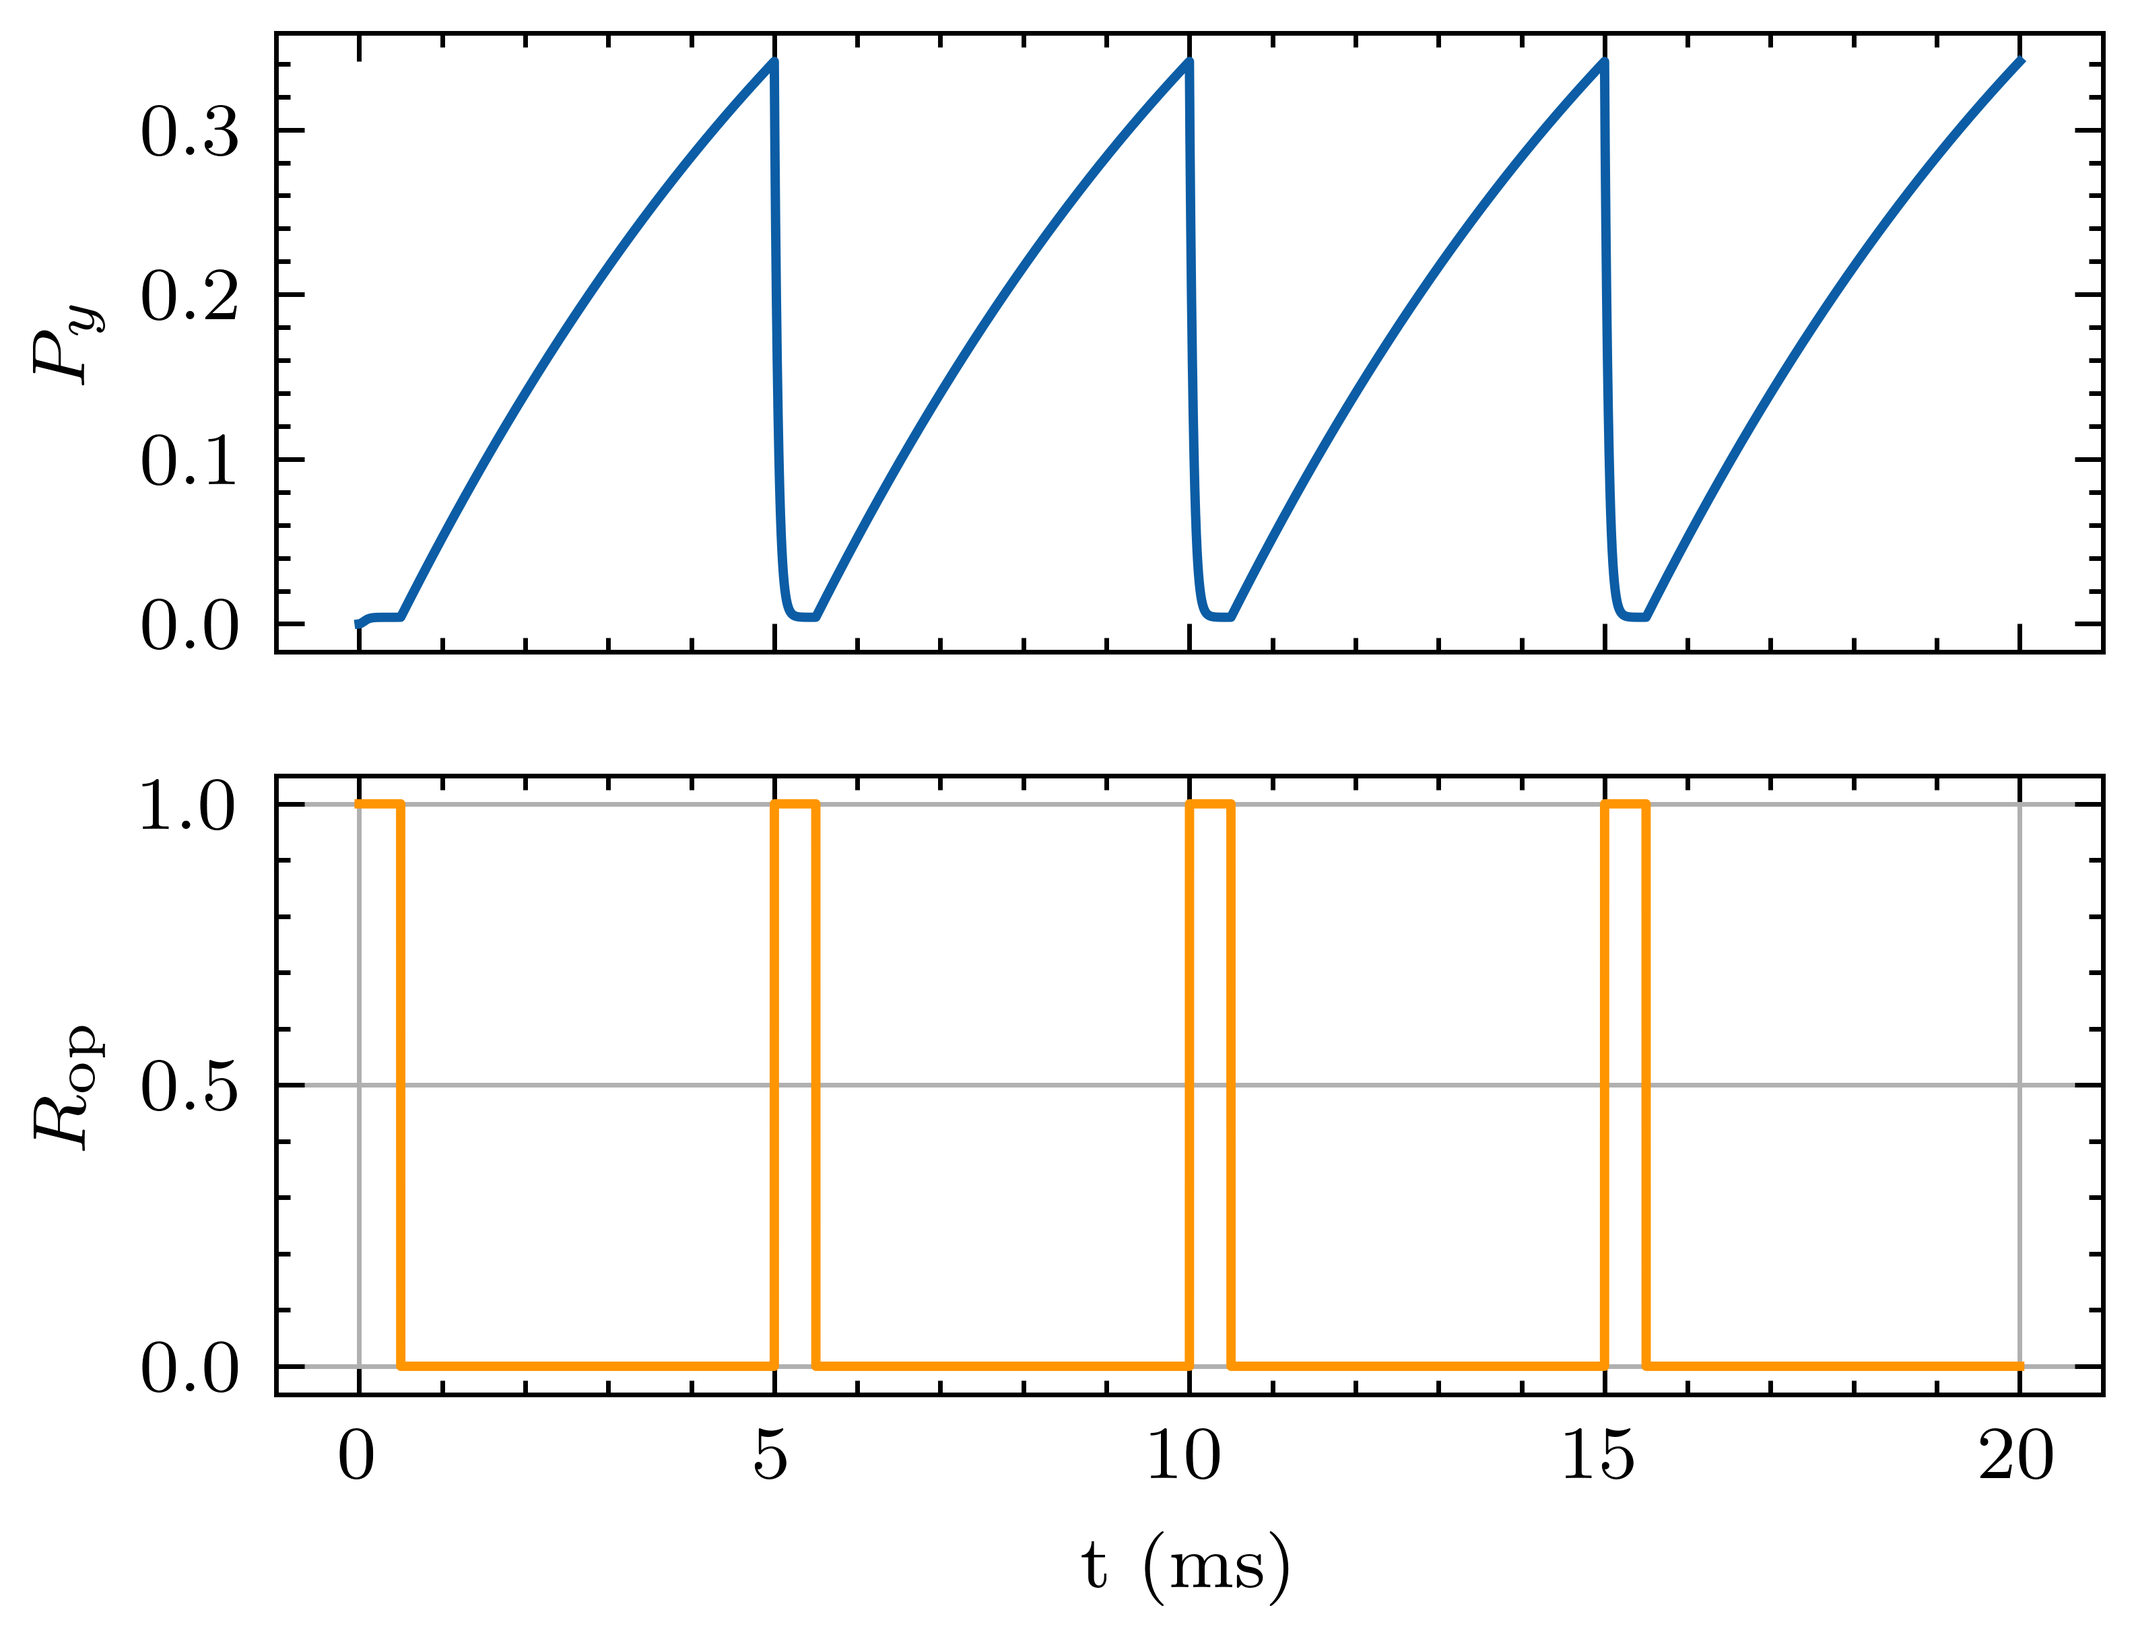
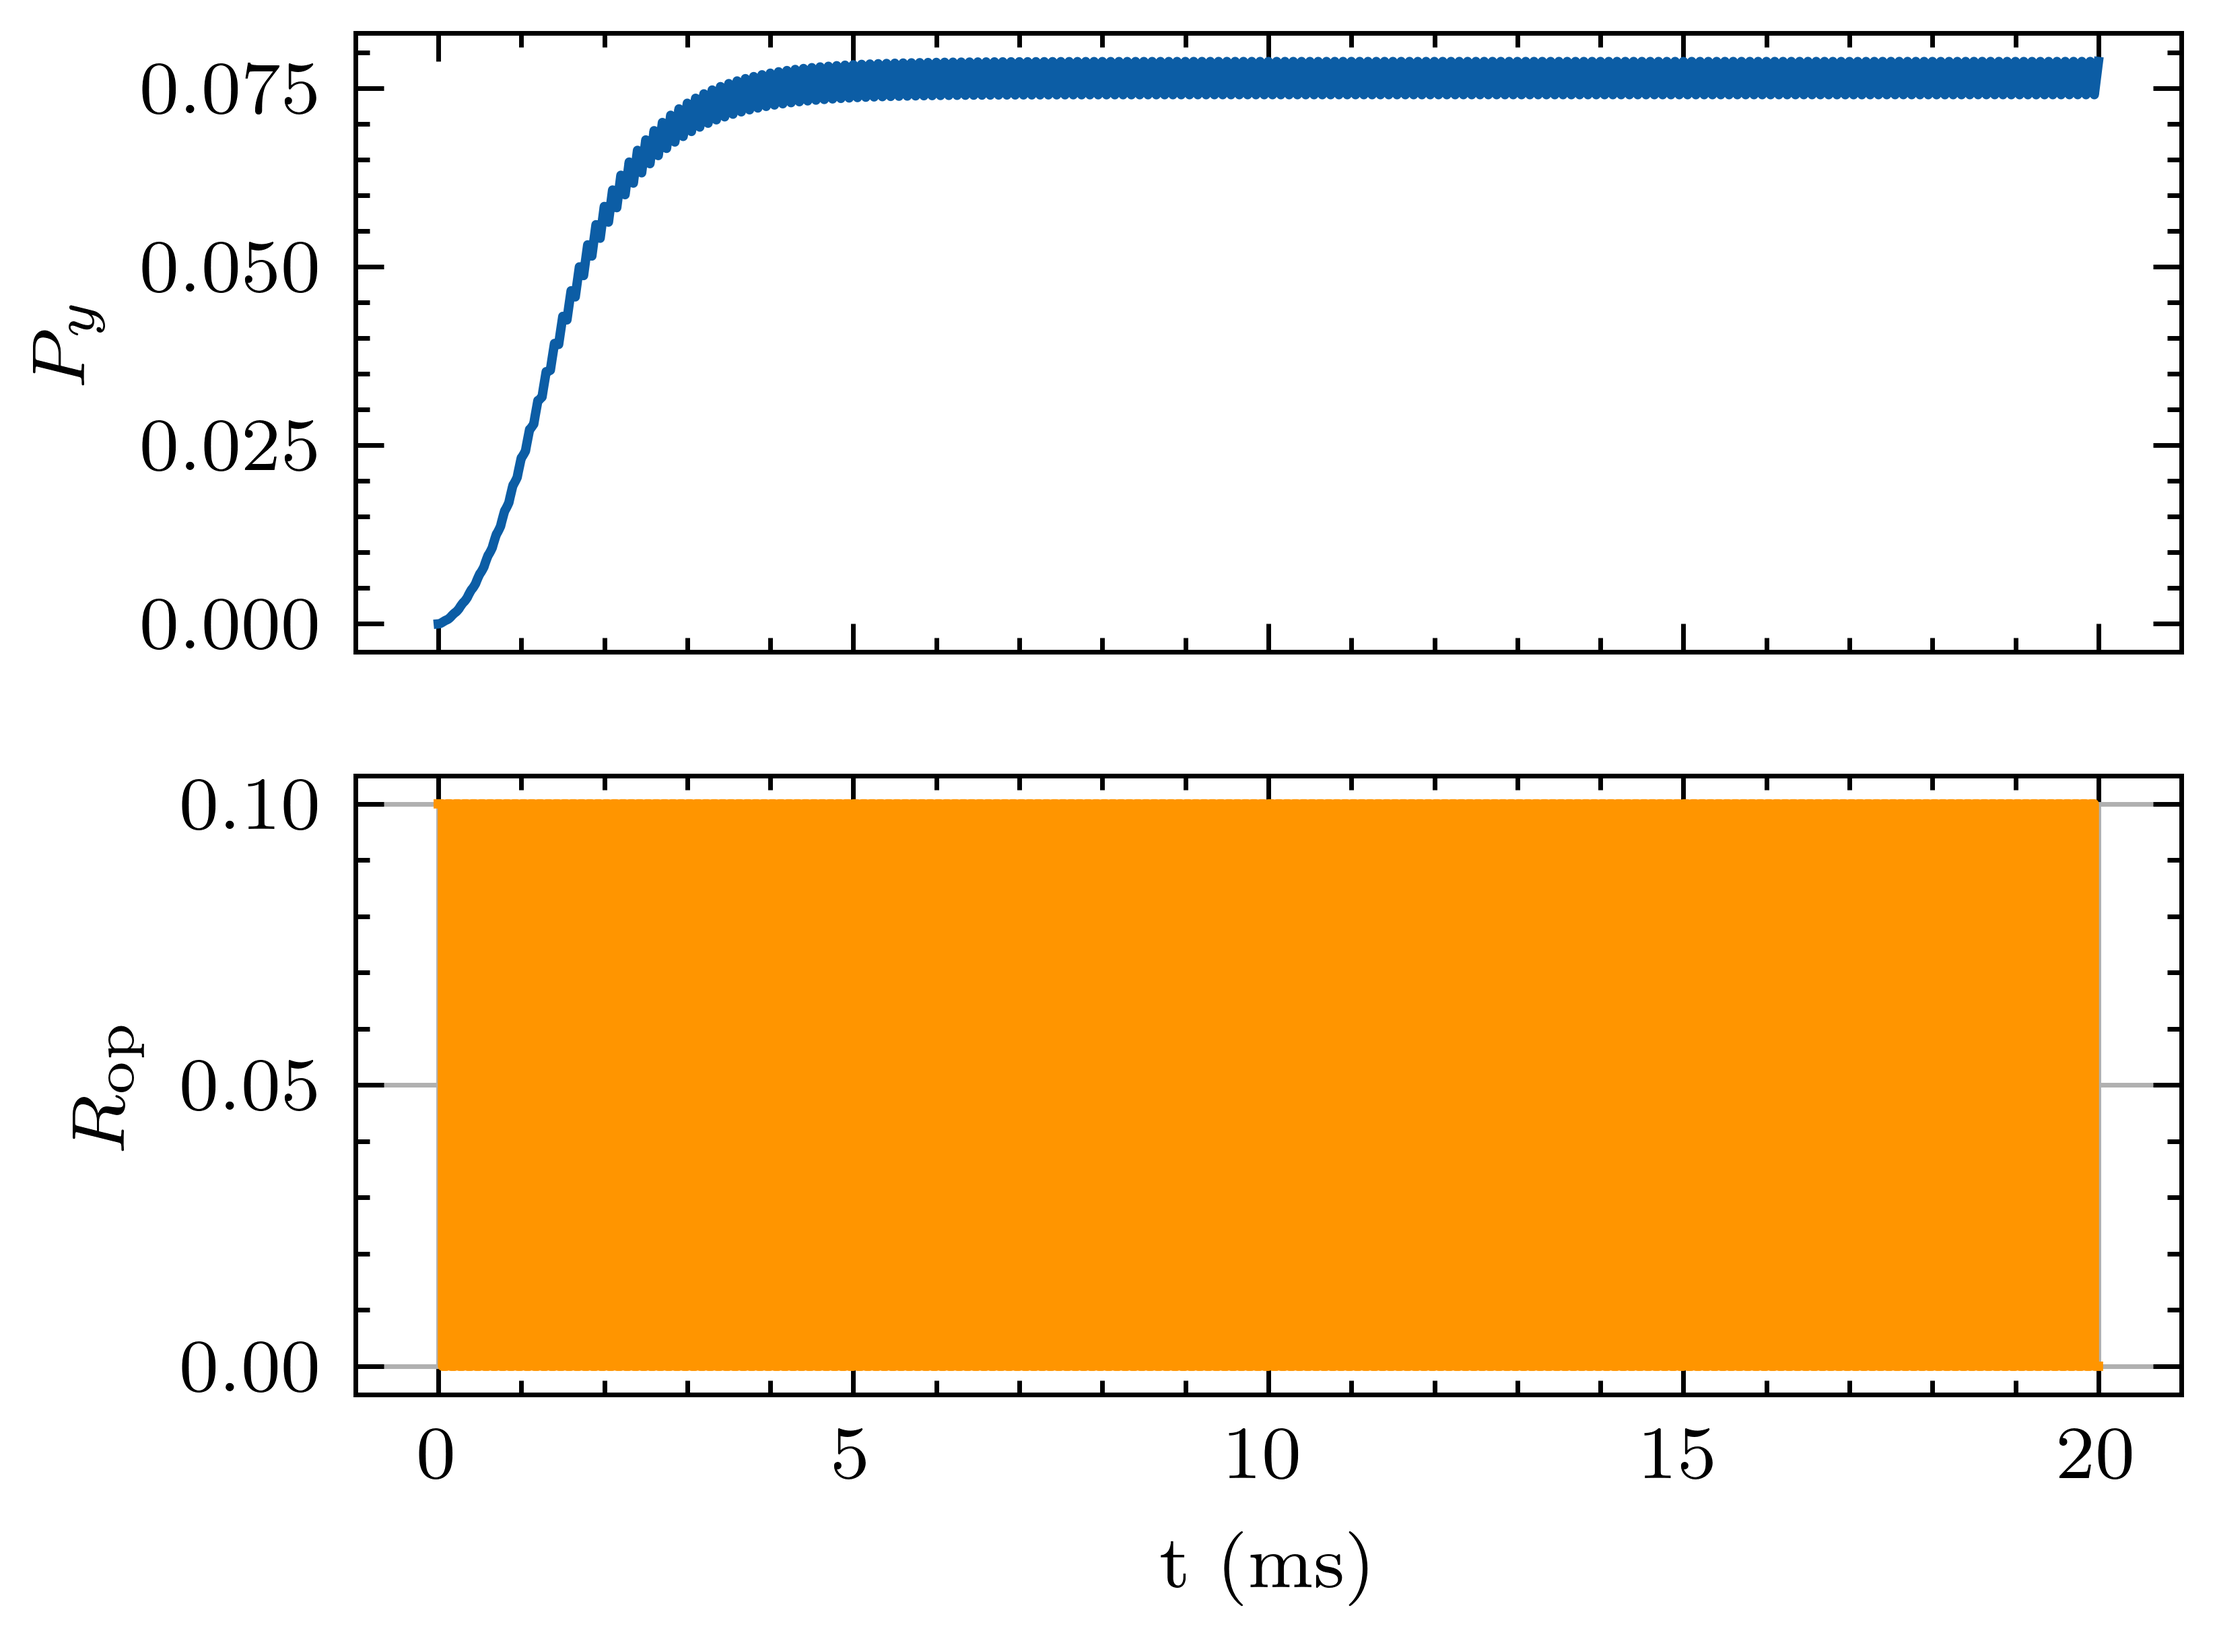
1

diff --git a/Correlations_and_squeezing/desqueezing by Zeeman and hyperfine effect.py b/Correlations_and_squeezing/desqueezing by Zeeman and hyperfine effect.py
@@ -10,10 +10,10 @@ sys.path.append(r"D:\python\pythonProject\Optically_pumped_atoms\my_functions")
 import numpy as np
 import matplotlib.pyplot as plt
 from qutip import *
-from Generate_a_squeezed_state_by_QND import Generate_a_squeezed_state_by_QND
-from alkali_atom_uncoupled_to_coupled import alkali_atom_uncoupled_to_coupled
+from my_functions.Generate_a_squeezed_state_by_QND import Generate_a_squeezed_state_by_QND
+from my_functions.alkali_atom_uncoupled_to_coupled import alkali_atom_uncoupled_to_coupled
 from scipy.linalg import *
-from spin_operators_of_2or1_alkali_metal_atoms import spin_operators_of_2or1_alkali_metal_atoms
+from my_functions.spin_operators_of_2or1_alkali_metal_atoms import spin_operators_of_2or1_alkali_metal_atoms
 from sympy.physics.quantum.spin import JzKet, JxKet
 from sympy.physics.quantum.represent import represent
 from matplotlib import rc
@@ -109,8 +109,8 @@ if N == 3:
     Pt23 = 3 / 4 * np.eye(round((2 * (2 * I + 1)) ** N)) + (S2x @ S3x + S2y @ S3y + S2z @ S3z)
     Pe23 = Pt23 - Ps23
 
-T = 150
-dt = 0.01
+T = 3
+dt = 0.001
 n = round(T / dt)
 te = np.arange(0, T, dt)
 C_1 = [None] * n
@@ -127,7 +127,7 @@ C_a1za2z2 = [None] * n
 C_a1zb2z2 = [None] * n
 C_b1zb2z2 = [None] * n
 # ----------------------Magnetic field----------------------#
-omega_0 = 0.1
+omega_0 = 1
 # H = omega_e * (ax-bx)              #一个原子
 # H = omega_0 * (a1x + a2x - b1x - b2x)  # 两个原子
 H = omega_0 * (a1x + a2x + a3x - b1x - b2x - b3x)  # 三个原子
@@ -151,7 +151,7 @@ for t in np.arange(0, n, 1):
     # C_a1zb2z[t] = np.trace(Rho_atom @ a1z @ b2z) - np.trace(Rho_atom @ a1z) * np.trace(Rho_atom @ b2z)
     # C_b1zb2z[t] = np.trace(Rho_atom @ b1z @ b2z) - np.trace(Rho_atom @ b1z) * np.trace(Rho_atom @ b2z)
     hh=np.random.uniform()
-    if hh<0.1:
+    if hh<0.3:
         r = np.random.uniform()
         if r  < 0.3:
             phi = np.random.normal(np.pi / 2, 2)
@@ -177,7 +177,8 @@ for t in np.arange(0, n, 1):
     # C_b1zb2z2[t] = np.trace(Rho_atom @ b1z @ b2z) - np.trace(Rho_atom @ b1z) * np.trace(Rho_atom @ b2z)
     Rho_atom = evolving_B @ Rho_atom @ evolving_B.T.conjugate()
     Rho_atom = hyperfine * Rho_atom
-
+C_1=np.array(C_1)/16
+C_2=np.array(C_2)/16
 tt = np.arange(0, n, 1)*0.01
 with plt.style.context(['science']):
     fig = plt.figure()
@@ -188,10 +189,9 @@ with plt.style.context(['science']):
                ["With SEC","Witout SEC"]
                , loc='upper right',ncol=2,fontsize='9')
     ax1.set_xlabel('$t$ (s)')
-    ax1.set_ylabel('Var $( \mathcal F_{x})$')
+    ax1.set_ylabel('Var $( \mathcal S_{x})$')
     # plt.xlim(0, 2)
-    plt.ylim(1.6,9)
-    plt.show()
+    plt.ylim(0.1,0.6)
     plt.savefig('desqueezing.png', dpi=600)
 
     # fig = plt.figure()

diff --git a/Correlations_and_squeezing/SEC of two Rb atoms on their correlation.py b/Correlations_and_squeezing/SEC of two Rb atoms on their correlation.py
@@ -7,8 +7,8 @@ import sys
 sys.path.append(r"D:\python\pythonProject\Optically_pumped_atoms\my_functions")
 import numpy as np
 import matplotlib.pyplot as plt
-from spin_operators_of_2or1_alkali_metal_atoms import spin_operators_of_2or1_alkali_metal_atoms
-from alkali_atom_uncoupled_to_coupled import alkali_atom_uncoupled_to_coupled
+from my_functions.spin_operators_of_2or1_alkali_metal_atoms import spin_operators_of_2or1_alkali_metal_atoms
+from my_functions.alkali_atom_uncoupled_to_coupled import alkali_atom_uncoupled_to_coupled
 from qutip import *
 from scipy.linalg import *
 import matplotlib.pyplot as plt
@@ -121,7 +121,7 @@ with plt.style.context(['science']):
     # p7, = plt.plot(t * dt, C_7)
     # p5, = plt.plot(t * dt, C_5)
     plt.legend([p1, p2, p3, p4, p5,p6],
-               ["$\langle a_{1x} a_{1x} \\rangle$", "$\langle b_{1x} b_{1x} \\rangle$", "$\langle a_{1x} a_{2x} \\rangle$", "$\langle b_{1x} b_{2x} \\rangle$", "$\langle a_{1x} b_{2x}\\rangle$", "$\langle \mathcal F_{x} \mathcal F_{x} \\rangle$"]
+               ["$\langle f^a_{1x} f^a_{1x} \\rangle$", "$\langle f^b_{1x} f^b_{1x} \\rangle$", "$\langle f^a_{1x} f^a_{2x} \\rangle$", "$\langle f^b_{1x} f^b_{2x} \\rangle$", "$\langle f^a_{1x} f^b_{2x}\\rangle$", "$\langle \mathcal F_{x} \mathcal F_{x} \\rangle$"]
                ,ncol = 2, loc='center right',bbox_to_anchor=(0.95, 0.7))
 
     plt.xlabel('Spin-exchange collision number')

diff --git a/Correlations_and_squeezing/SEC increase of two atoms.py b/Correlations_and_squeezing/SEC increase of two atoms.py
@@ -8,8 +8,8 @@ sys.path.append(r"D:\python\pythonProject\Optically_pumped_atoms\my_functions")
 
 import numpy as np
 import matplotlib.pyplot as plt
-from spin_operators_of_2or1_alkali_metal_atoms import spin_operators_of_2or1_alkali_metal_atoms
-from  alkali_atom_uncoupled_to_coupled import alkali_atom_uncoupled_to_coupled
+from my_functions.spin_operators_of_2or1_alkali_metal_atoms import spin_operators_of_2or1_alkali_metal_atoms
+from  my_functions.alkali_atom_uncoupled_to_coupled import alkali_atom_uncoupled_to_coupled
 from qutip import *
 from scipy.linalg import *
 import matplotlib.pyplot as plt
@@ -159,8 +159,8 @@ p82, = ax1.plot(t, C_82, linestyle='dashed')
 p32, = ax1.plot(t, C_32, linestyle='dashed')
 p92, = ax1.plot(t, C_92, linestyle='dashed')
 ax1.legend([p1, p5, p3, p6, p8, p9],
-           ["$<a_{1x} a_{1x}>$", "$<a_{1x} a_{2x}>$", "$<b_{1x} b_{1x}>$", "$<a_{1x} b_{2x}>$", "$<b_{1x} b_{2x}>$",
-            "$<\mathcal F_x \mathcal F_x>$"]
+           ["$<f^a_{1x} f^a_{1x}>$", "$<f^a_{1x} f^a_{2x}>$", "$<f^b_{1x} f^b_{1x}>$", "$<f^a_{1x} f^b_{2x}>$", "$<f^b_{1x} f^b_{2x}>$",
+            "$[I]^2<\mathcal S_x \mathcal S_x>$"]
            , bbox_to_anchor=(1, 1),ncol=1)
 ax1.set_ylabel('Correlations')
 ax1.set_xlabel('time (T$_{\mathrm{se}}$)')

diff --git a/Correlations_and_squeezing/SEC relaxation of two atoms.py b/Correlations_and_squeezing/SEC relaxation of two atoms.py
@@ -8,8 +8,8 @@ sys.path.append(r"D:\python\pythonProject\Optically_pumped_atoms\my_functions")
 
 import numpy as np
 import matplotlib.pyplot as plt
-from spin_operators_of_2or1_alkali_metal_atoms import spin_operators_of_2or1_alkali_metal_atoms
-from  alkali_atom_uncoupled_to_coupled import alkali_atom_uncoupled_to_coupled
+from my_functions.spin_operators_of_2or1_alkali_metal_atoms import spin_operators_of_2or1_alkali_metal_atoms
+from  my_functions.alkali_atom_uncoupled_to_coupled import alkali_atom_uncoupled_to_coupled
 from qutip import *
 from scipy.linalg import *
 import matplotlib.pyplot as plt
@@ -160,8 +160,8 @@ p82, = ax1.plot(t, C_82, linestyle='dashed')
 p32, = ax1.plot(t, C_32, linestyle='dashed')
 p92, = ax1.plot(t, C_92, linestyle='dashed')
 ax1.legend([p1, p5, p3, p6, p8, p9],
-           ["$<a_{1x} a_{1x}>$", "$<a_{1x} a_{2x}>$", "$<b_{1x} b_{1x}>$", "$<a_{1x} b_{2x}>$", "$<b_{1x} b_{2x}>$",
-            "$<\mathcal F_x \mathcal F_x>$"]
+           ["$<f^a_{1x} f^a_{1x}>$", "$<f^a_{1x} f^a_{2x}>$", "$<f^b_{1x} f^b_{1x}>$", "$<f^a_{1x} f^b_{2x}>$", "$<f^b_{1x} f^b_{2x}>$",
+            "$[I]^2<\mathcal S_x \mathcal S_x>$"]
            , bbox_to_anchor=(1, 1),ncol=1)
 ax1.set_ylabel('Correlations')
 ax1.set_xlabel('time (T$_{\mathrm{se}}$)')

diff --git a/picture2.py b/picture2.py
@@ -6,13 +6,14 @@
 # -*- coding:utf-8 -*-
 import sys
 sys.path.append(r"D:\python\pythonProject\Optically_pumped_atoms\my_functions")
+
 import numpy as np
 import matplotlib.pyplot as plt
-from Generate_a_squeezed_state_by_QND import Generate_a_squeezed_state_by_QND
-from alkali_atom_uncoupled_to_coupled import alkali_atom_uncoupled_to_coupled
+from my_functions.Generate_a_squeezed_state_by_QND import Generate_a_squeezed_state_by_QND
+from my_functions.alkali_atom_uncoupled_to_coupled import alkali_atom_uncoupled_to_coupled
 from scipy.linalg import *
-from spin_operators_of_2or1_alkali_metal_atoms import spin_operators_of_2or1_alkali_metal_atoms
-from ptr import ptr
+from my_functions.spin_operators_of_2or1_alkali_metal_atoms import spin_operators_of_2or1_alkali_metal_atoms
+from my_functions.ptr import ptr
 from scipy.linalg import *
 import scienceplots
 from matplotlib.ticker import FuncFormatter

diff --git a/my_functions/Generate_a_squeezed_state_by_QND.py b/my_functions/Generate_a_squeezed_state_by_QND.py
@@ -9,9 +9,9 @@ sys.path.append(r"D:\python\pythonProject\Optically_pumped_atoms\my_functions")
 import numpy as np
 import matplotlib.pyplot as plt
 from qutip import *
-from ptr import ptr
+from my_functions.ptr import ptr
 from scipy.linalg import *
-from spin_operators_of_2or1_alkali_metal_atoms import spin_operators_of_2or1_alkali_metal_atoms
+from my_functions.spin_operators_of_2or1_alkali_metal_atoms import spin_operators_of_2or1_alkali_metal_atoms
 
 
 def Generate_a_squeezed_state_by_QND(N, I, T, s, alpha, dt):

diff --git a/SERF_magnetometer_simulation.py b/SERF_magnetometer_simulation.py
@@ -1,4 +1,3 @@
-
 import sys
 # sys.path.append(r"/Users/liyang/Documents/GitHub/Optically_polarized_atoms/my_functions")
 sys.path.append(r"D:\Optically-pumped-atoms\my_functions")
@@ -95,9 +94,9 @@ dt=0.001
 T=2000
 t=np.arange(0,T,dt)
 
-frequency = 0.002
-amplitude = 0.5
-Rop= amplitude * signal.square(2 * np.pi * frequency * t, duty=0.1)+amplitude 
+frequency = 0.1
+amplitude = 0.05
+Rop= amplitude * signal.square(2 * np.pi * frequency * t, duty=0.5)+amplitude 
 Rsd =0.001
 Rse= 1
 omega0=0.001
